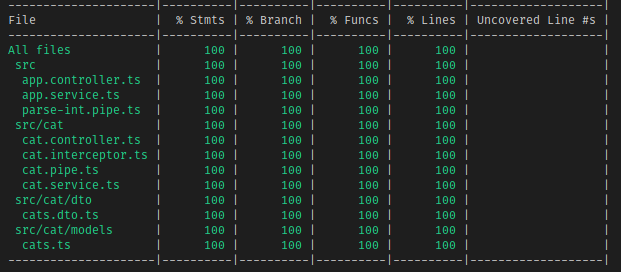
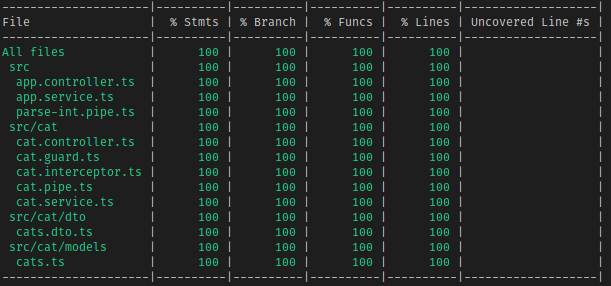
feat(guard-test): add guard test and mock
Show off how to use a guard in a basic application, update the testCoverage.png and edit the REDME.
Add the guard to the controller and ensure that e2e and unit tests are all running successfully.

Changed region(s): [[0.0, 0.0, 0.9951, 1.0], [0.0, 0.0588, 0.0622, 0.0882]]

diff --git a/complex-sample/src/cat/cat.guard.spec.ts b/complex-sample/src/cat/cat.guard.spec.ts
@@ -1,0 +1,39 @@
+import { CatGuard } from './cat.guard';
+
+describe('CatGuard', () => {
+  let guard: CatGuard;
+
+  beforeEach(() => {
+    guard = new CatGuard();
+  });
+
+  it('should be defined', () => {
+    expect(guard).toBeDefined();
+  });
+  it('should return true with auth', () => {
+    expect(
+      guard.canActivate({
+        switchToHttp: () => ({
+          getRequest: () => ({
+            headers: {
+              authorization: 'auth',
+            },
+          }),
+        }),
+      } as any),
+    ).toBeTruthy();
+  });
+  it('should return false without auth', () => {
+    expect(
+      guard.canActivate({
+        switchToHttp: () => ({
+          getRequest: () => ({
+            headers: {
+              authorization: '',
+            },
+          }),
+        }),
+      } as any),
+    ).toBeFalsy();
+  });
+});

diff --git a/complex-sample/src/cat/cat.guard.ts b/complex-sample/src/cat/cat.guard.ts
@@ -1,0 +1,13 @@
+import { CanActivate, ExecutionContext, Injectable } from '@nestjs/common';
+import { Observable } from 'rxjs';
+
+@Injectable()
+export class CatGuard implements CanActivate {
+  canActivate(
+    context: ExecutionContext,
+  ): boolean | Promise<boolean> | Observable<boolean> {
+    const req = context.switchToHttp().getRequest();
+    req.user = 'my user value';
+    return req.headers.authorization === 'auth';
+  }
+}

diff --git a/complex-sample/src/cat/cat.controller.spec.ts b/complex-sample/src/cat/cat.controller.spec.ts
@@ -52,7 +52,7 @@ describe('Cat Controller', () => {
   });
   describe('getAllCats', () => {
     it('should get the list of cats', () => {
-      const retCats = controller.getAllCats({ user: 'my user value' } as any);
+      const retCats = controller.getAllCats();
       expect(typeof retCats).toBe('object');
       expect(retCats[0].id).toBe(1);
       expect(retCats[1].name).toBe('Test Cat 2');

diff --git a/complex-sample/src/cat/dto/cats.dto.spec.ts b/complex-sample/src/cat/dto/cats.dto.spec.ts
@@ -1,0 +1,9 @@
+import { CatDTO } from './cats.dto';
+
+describe('CatDTO', () => {
+  it('should create a catDTO object', () => {
+    expect(new CatDTO('Test Cat 1', 'Test Breed 1', 3)).toEqual(
+      new CatDTO('Test Cat 1', 'Test Breed 1', 3),
+    );
+  });
+});

diff --git a/complex-sample/README.md b/complex-sample/README.md
@@ -4,7 +4,7 @@
 
 # Complex Sample
 
-So, this really is more of an intermediately complex example, as it only scratches the surface of getting into a lot of mocking. The test classes give this project 100% statement, line, branch, and function coverage, and also has all E2E tests passing with both mocking and non mocking exmaples.
+So, this really is more of an intermediately complex example, as it only scratches the surface of getting into a lot of mocking. The test classes give this project 100% statement, line, branch, and function coverage, and also has all E2E tests passing with both mocking and non mocking examples.
 
 ## Hangups
 
